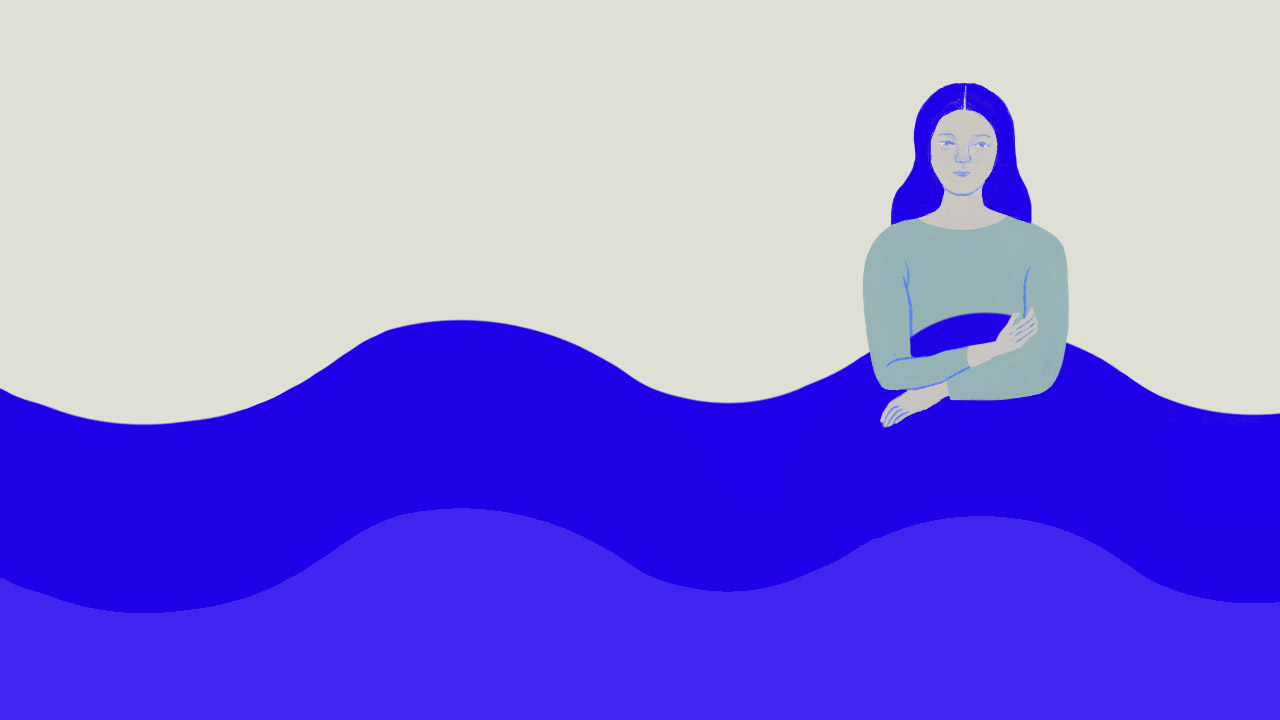
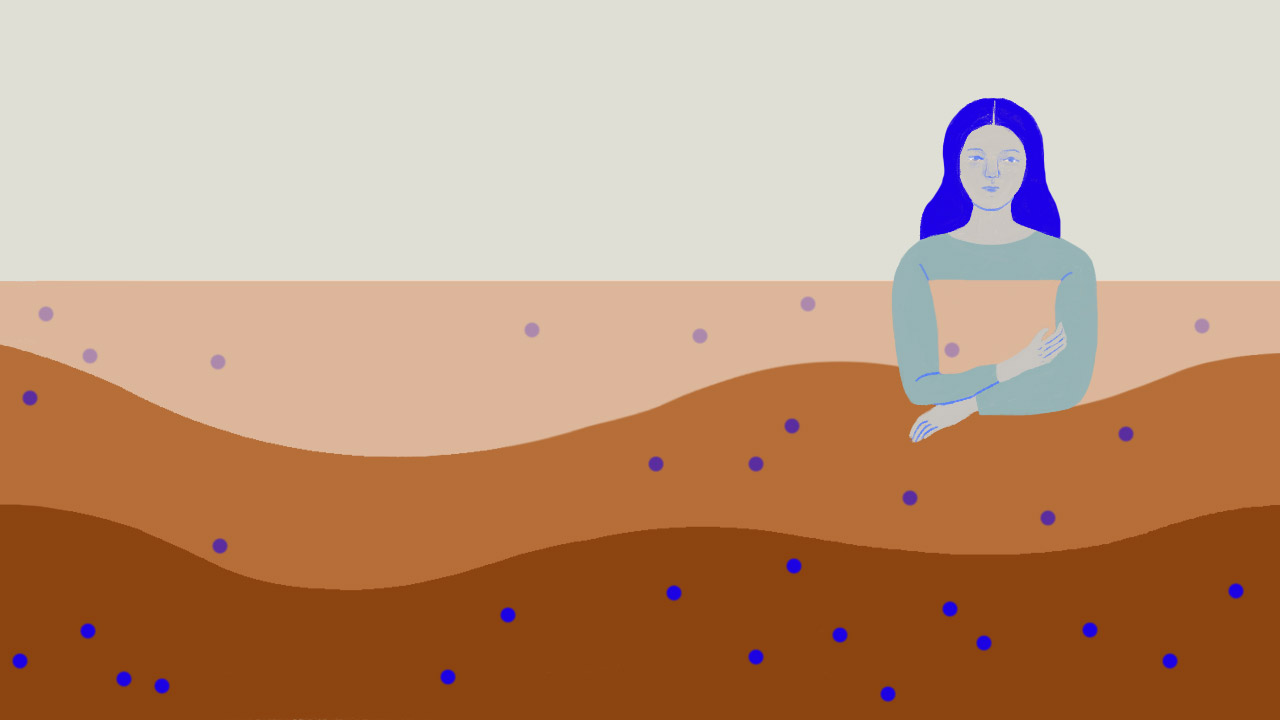
edit bg result

diff --git a/src/App.js b/src/App.js
@@ -31,8 +31,8 @@ class Quiz extends React.Component {
   constructor(props) {
     super(props);
     this.state = {
-      stage: 0,
-      result: 0,
+      stage: 6,
+      result: 1,
       showq: true,
       showa: false,
       answer: 0,
@@ -47,7 +47,9 @@ class Quiz extends React.Component {
     };
   }
 
-  componentDidMount() {}
+  componentDidMount() {
+    
+  }
 
   componentWillUnmount() {}
 
@@ -85,10 +87,69 @@ class Quiz extends React.Component {
     this.setState({ answer: 0 });
   };
   _genResult = () => {
-    console.log("Gen");
+    let arr = [
+      this.state.geo,
+      this.state.wind,
+      this.state.nuclear,
+      this.state.water,
+      this.state.solar,
+      this.state.bio,
+      this.state.waste,
+    ];
+    //let indexOfMaxValue = arr.indexOf(Math.max(...arr));
+    let MaxValue = Math.max(...arr);
+    console.log("ค่าสูงสุด : " + MaxValue);
+    var count = 0;
+    for (var i = 0; i < arr.length; i++) {
+      if (arr[i] === MaxValue) {
+        count++;
+      }
+    }
+    if(count >= 2){
+      this.setState({resultPath: 'duplicate'});
+      this.setState({result: 8})
+      console.log('มีค่าสูงสุดซ้ำกัน ตอบ 8')
+    }else{
+      let indexOfMaxValue = arr.indexOf(Math.max(...arr));
+      if(indexOfMaxValue === 0){
+        this.setState({resultPath: 'geo'});
+        this.setState({result: 1})
+        console.log('geo');
+      }
+      if(indexOfMaxValue === 1){
+        this.setState({resultPath: 'wind'});
+        this.setState({result: 2})
+        console.log('wind');
+      }
+      if(indexOfMaxValue === 2){
+        this.setState({resultPath: 'nuclear'});
+        this.setState({result: 3})
+        console.log('nuclear');
+      }
+      if(indexOfMaxValue === 3){
+        this.setState({resultPath: 'water'});
+        this.setState({result: 4})
+        console.log('water');
+      }
+      if(indexOfMaxValue === 4){
+        this.setState({resultPath: 'solar'});
+        this.setState({result: 5})
+        console.log('solar');
+      }
+      if(indexOfMaxValue === 5){
+        this.setState({resultPath: 'bio'});
+        this.setState({result: 6})
+        console.log('bio');
+      }
+      if(indexOfMaxValue === 6){
+        this.setState({resultPath: 'waste'});
+        this.setState({result: 7})
+        console.log('waste');
+      }
+    }
   };
-  
-  render() {    
+
+  render() {
     const backgroundStage =
       "stageBackground stage" +
       this.state.stage +
@@ -749,6 +810,19 @@ class Quiz extends React.Component {
                 </div>
               </div>
             )}
+            {this.state.stage === 6 && (
+              <div className="container">
+                <div className="row justify-content-center justify-content-lg-start pt-5">
+                  <div className="col-12 col-md-10 col-lg-6 text-left pt-4">
+                    <p>‘พลังงานทดแทน’</p>
+                    <p>ที่ซ่อนอยู่ในตัวคุณคือ</p>
+                    <p>พลังงานความร้อนใต้พิภพ</p>
+                    <p>ขุมทรัพย์ใต้ผืนโลก</p>
+                    <div className="boxDetailResualt"></div>
+                  </div>
+                </div>
+              </div>
+            )}
           </div>
         </div>
       </>
@@ -759,20 +833,19 @@ class Quiz extends React.Component {
 function Main() {
   return (
     <>
-    <div>
-      <Quiz />
-    </div>
+      <div>
+        <Quiz />
+      </div>
     </>
   );
 }
 
-
-function Geo() {  
+function Geo() {
   return (
     <>
-    <div>
-      <Quiz />
-    </div>
+      <div>
+        <Quiz />
+      </div>
     </>
   );
 }

diff --git a/public/index.html b/public/index.html
@@ -7,7 +7,7 @@
     <meta name="theme-color" content="#000000" />
     <meta
       name="description"
-      content="Web site created using create-react-app"
+      content="ในตัวคุณ 'มีพลังงานทดแทน' แบบไหนซ่อนอยู่"
     />
     <link rel="apple-touch-icon" href="%PUBLIC_URL%/logo192.png" />
     <!--
@@ -25,7 +25,7 @@
       Learn how to configure a non-root public URL by running `npm run build`.
     -->
     <link rel="stylesheet" href="%PUBLIC_URL%/css/style.css" />
-    <title>React App</title>
+    <title>Let's Power Up Your Energy</title>
   </head>
   <body>
     <noscript>You need to enable JavaScript to run this app.</noscript>
